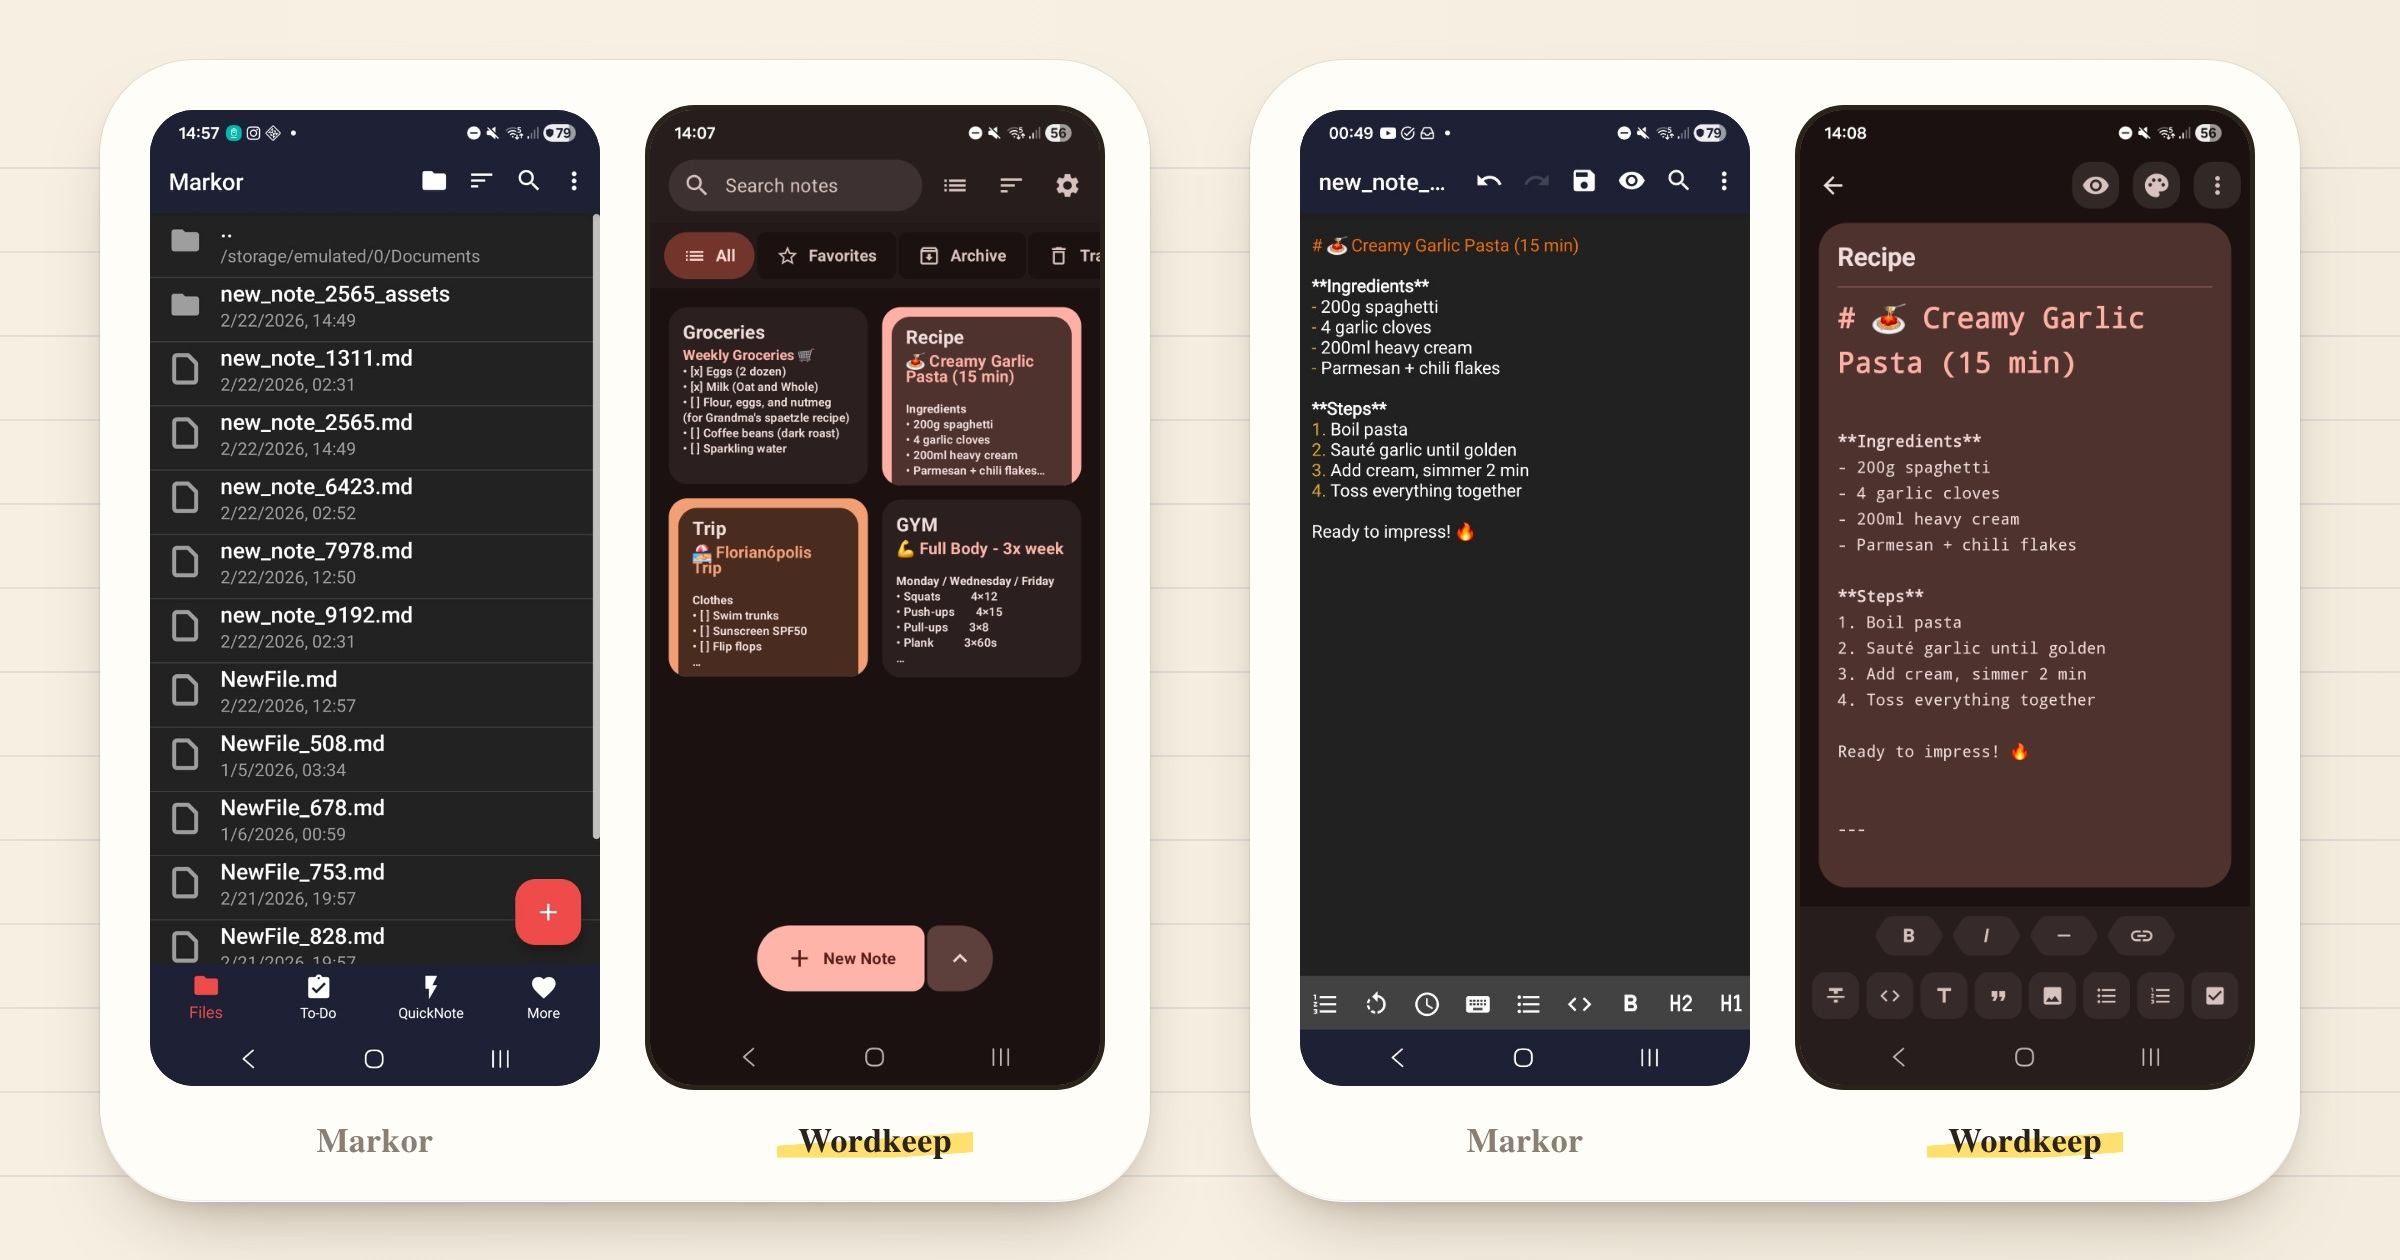
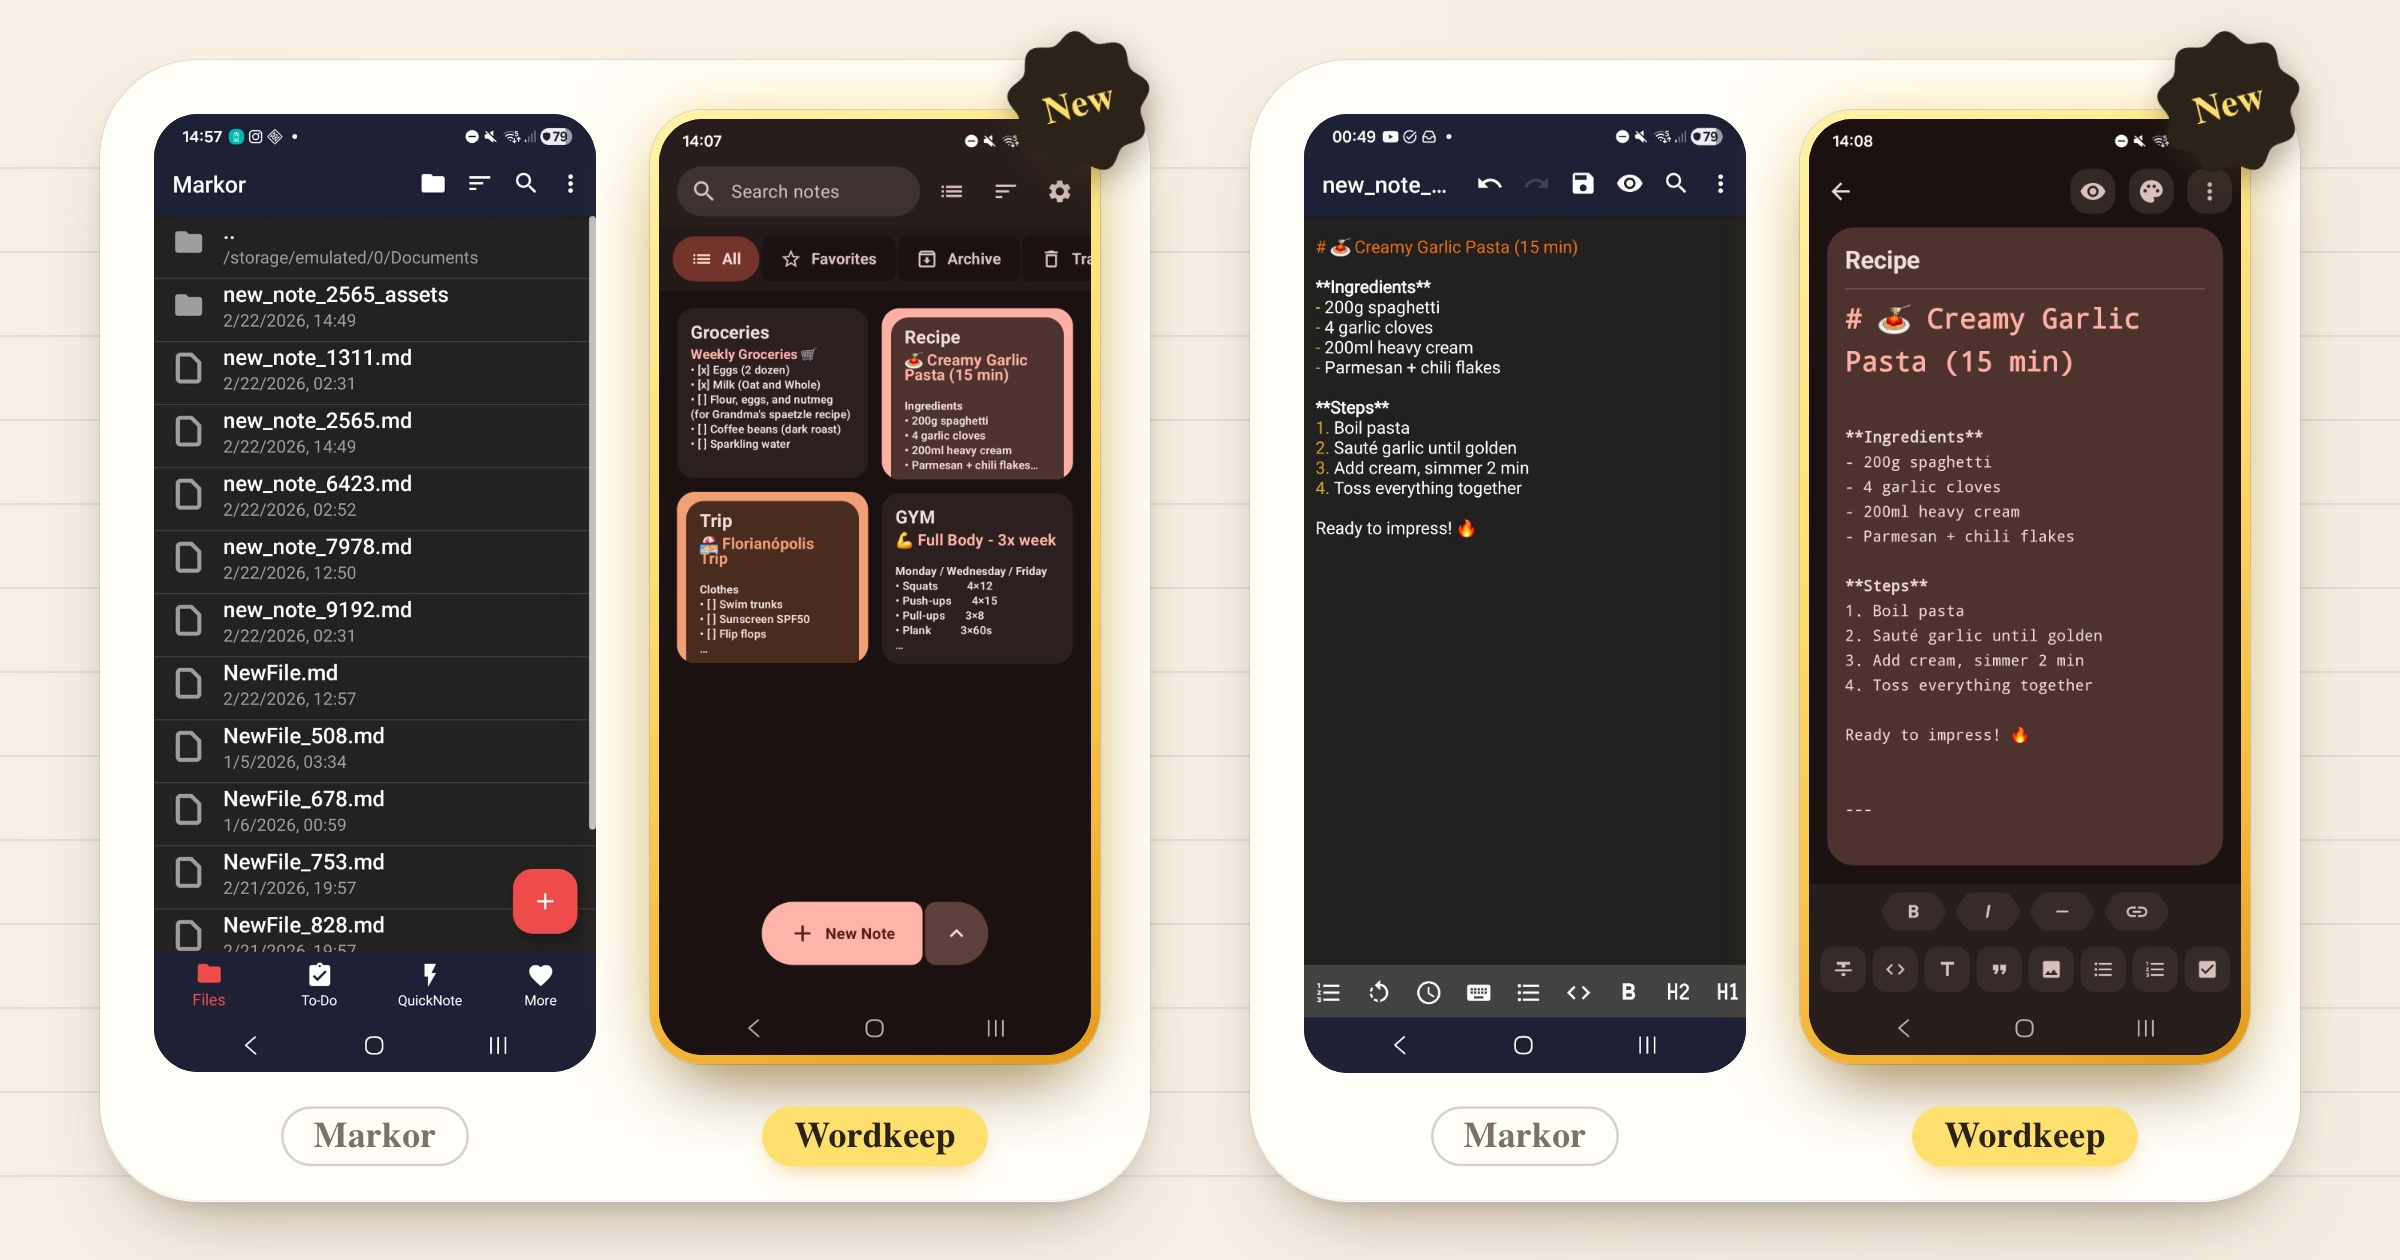
Make the comparison expressive: a glowing brand frame, name pills and a New sticker

Changed region(s): [[0.0625, 0.031, 0.5, 0.9595], [0.5312, 0.031, 0.9688, 0.9595], [0.5312, 0.1857, 0.6562, 0.4333]]

diff --git a/store-listing/theme.css b/store-listing/theme.css
@@ -62,20 +62,21 @@ header p{margin:28px 0 0;font-size:42px;line-height:1.28;font-weight:400;opacity
 .readme .hero .left{left:250px;top:330px;width:540px}
 .readme .hero .center{left:890px;top:150px;width:620px;z-index:3}
 .readme .hero .right{left:1610px;top:330px;width:540px}
-/* Before and after: no device frames, just the two real screens side by side on the paper, the same size,
-   on one baseline, each named by a small tag underneath. */
-.readme .compare .device{--bezel:0px;--radius:44px;width:450px;top:110px;background:none;
-  box-shadow:0 0 0 5px #2B2219}
+/* Before and after: the same notes on one sheet of paper per pair. Markor keeps a thin pencil ring;
+   Wordkeep steps forward in a highlighter-yellow frame, with a scalloped "New" sticker and a filled name pill. */
+.readme .compare .device{width:450px;top:110px}
 .readme .compare .device .screen{border-radius:44px;overflow:hidden}
+.readme .compare .device.before{--bezel:4px;--radius:48px;background:#2B221940;box-shadow:0 26px 50px -30px #4a3420aa}
+.readme .compare .device.after{--bezel:9px;--radius:53px;background:linear-gradient(155deg,#fff2a8,#ffdf6e 40%,#f6b93b 78%,#e59a1c);
+  box-shadow:0 0 0 1px #2B221926,0 0 80px -12px #ffcf4a99,0 36px 70px -30px #4a3420cc}
 .readme .compare .pair1.before{left:150px}
 .readme .compare .pair1.after{left:650px}
 .readme .compare .pair2.before{left:1300px}
 .readme .compare .pair2.after{left:1800px}
-.readme .compare .device-label{transform:translateY(calc(var(--h) + 38px));font:600 34px/1 Serif,serif;letter-spacing:.01em}
-.readme .compare .device-label::before{content:attr(data-name)}
-.device-label.before{color:#8a7f72}
-.device-label.after{color:var(--ink)}
-/* Each pair shares one sheet of paper, and the new name gets the store headlines' highlighter. */
-.readme .compare .device.before::before{content:'';position:absolute;z-index:-1;left:-50px;top:-50px;width:1050px;height:1140px;border-radius:94px;
+.readme .compare .device.before::before{content:'';position:absolute;z-index:-1;left:-50px;top:-50px;width:1050px;height:1140px;border-radius:98px;
   background:#fffdf8;box-shadow:0 0 0 1px #2B221914,0 2px 0 #ffffff,0 40px 80px -40px #4a342080,0 10px 24px -14px #4a342040}
-.device-label.after{background:linear-gradient(176deg,transparent 46%,var(--hl) 47%,var(--hl) 88%,transparent 89%) 50% 0/196px 100% no-repeat}
+.readme .compare .device-label{transform:translateY(calc(var(--h) + 30px));display:flex;justify-content:center}
+.readme .compare .device-label span{padding:12px 32px;border-radius:999px;font:600 36px/1 Serif,serif;letter-spacing:.005em}
+.device-label.before span{color:#7d7266;box-shadow:inset 0 0 0 2.5px #2B221933;font-weight:500}
+.device-label.after span{color:var(--ink);background:#ffdf6e;box-shadow:0 10px 26px -12px #e59a1caa}
+.readme .compare .sticker{position:absolute;z-index:5;width:150px;height:150px;transform:rotate(-14deg);filter:drop-shadow(0 12px 16px #4a342066)}

diff --git a/store-listing/theme.js b/store-listing/theme.js
@@ -1,6 +1,6 @@
 // Wordkeep: a notebook page under the whole strip. The ruled lines and paper tone are laid out in panorama
 // coordinates, and each Markdown mark sits on a seam, so neighbouring cards share it and the set reads as one page.
-import {panoramaGradient} from './studio/shapes.js';
+import {panoramaGradient, shapes} from './studio/shapes.js';
 
 function brand(main) {
   const node = document.createElement('div');
@@ -62,6 +62,17 @@ export default {
     if (slide.layout === 'compare') {
       // Each name sits just under its screen.
       for (const label of devices[0].node.parentElement.querySelectorAll('.device-label')) label.style.setProperty('--h', `${devices[0].box.height}px`);
+      // A scalloped "New" sticker on the top corner of each new screen.
+      for (const {spec, box, node} of devices) {
+        if (!/after/.test(spec.role || '')) continue;
+        const sticker = document.createElement('div');
+        sticker.className = 'sticker';
+        sticker.dataset.checkBounds = '';
+        sticker.innerHTML = `<svg viewBox="0 0 150 150" width="150" height="150"><g fill="#2B2219">${shapes.cookie(75, 75, 72)}</g>` +
+          '<text x="75" y="88" text-anchor="middle" font-family="Serif" font-weight="700" font-size="38" fill="#ffdf6e">New</text></svg>';
+        Object.assign(sticker.style, {left: `${box.left + box.width - 96}px`, top: `${box.top - 82}px`});
+        node.parentElement.append(sticker);
+      }
       return;
     }
     if (/stack|pair|duo|drop/.test(slide.layout || '')) return;

diff --git a/store-listing/studio/core.js b/store-listing/studio/core.js
@@ -122,7 +122,7 @@ for (const {spec, box} of context.devices) {
   const label = document.createElement('div');
   label.className = `device-label${spec.role ? ` ${spec.role}` : ''}`;
   label.dataset.checkBounds = '';
-  label.textContent = spec.label;
+  label.append(Object.assign(document.createElement('span'), {textContent: spec.label}));
   Object.assign(label.style, {left: `${box.left}px`, width: `${box.width}px`, top: `${box.top}px`});
   main.append(label);
 }
